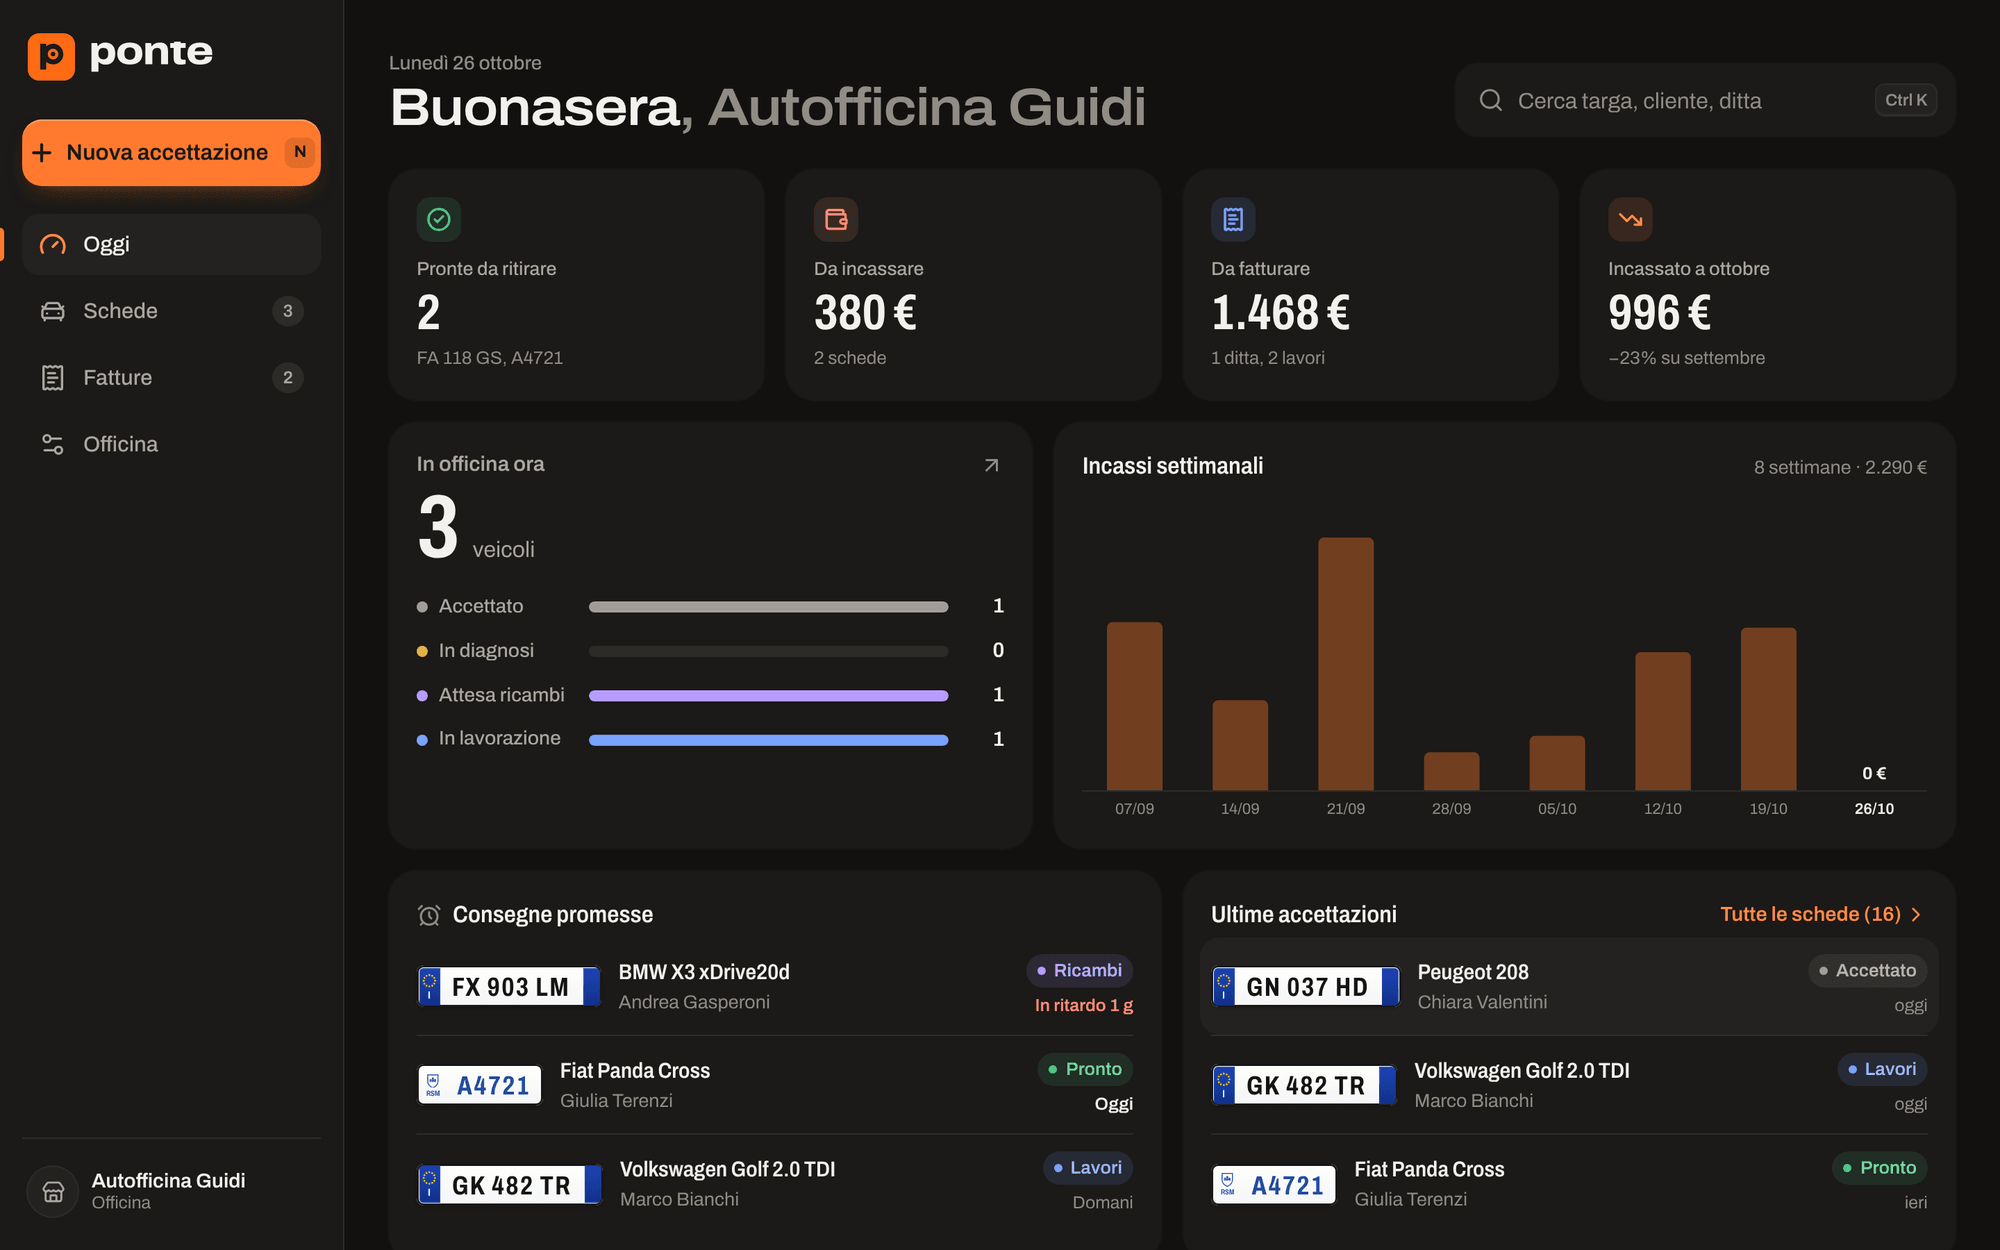
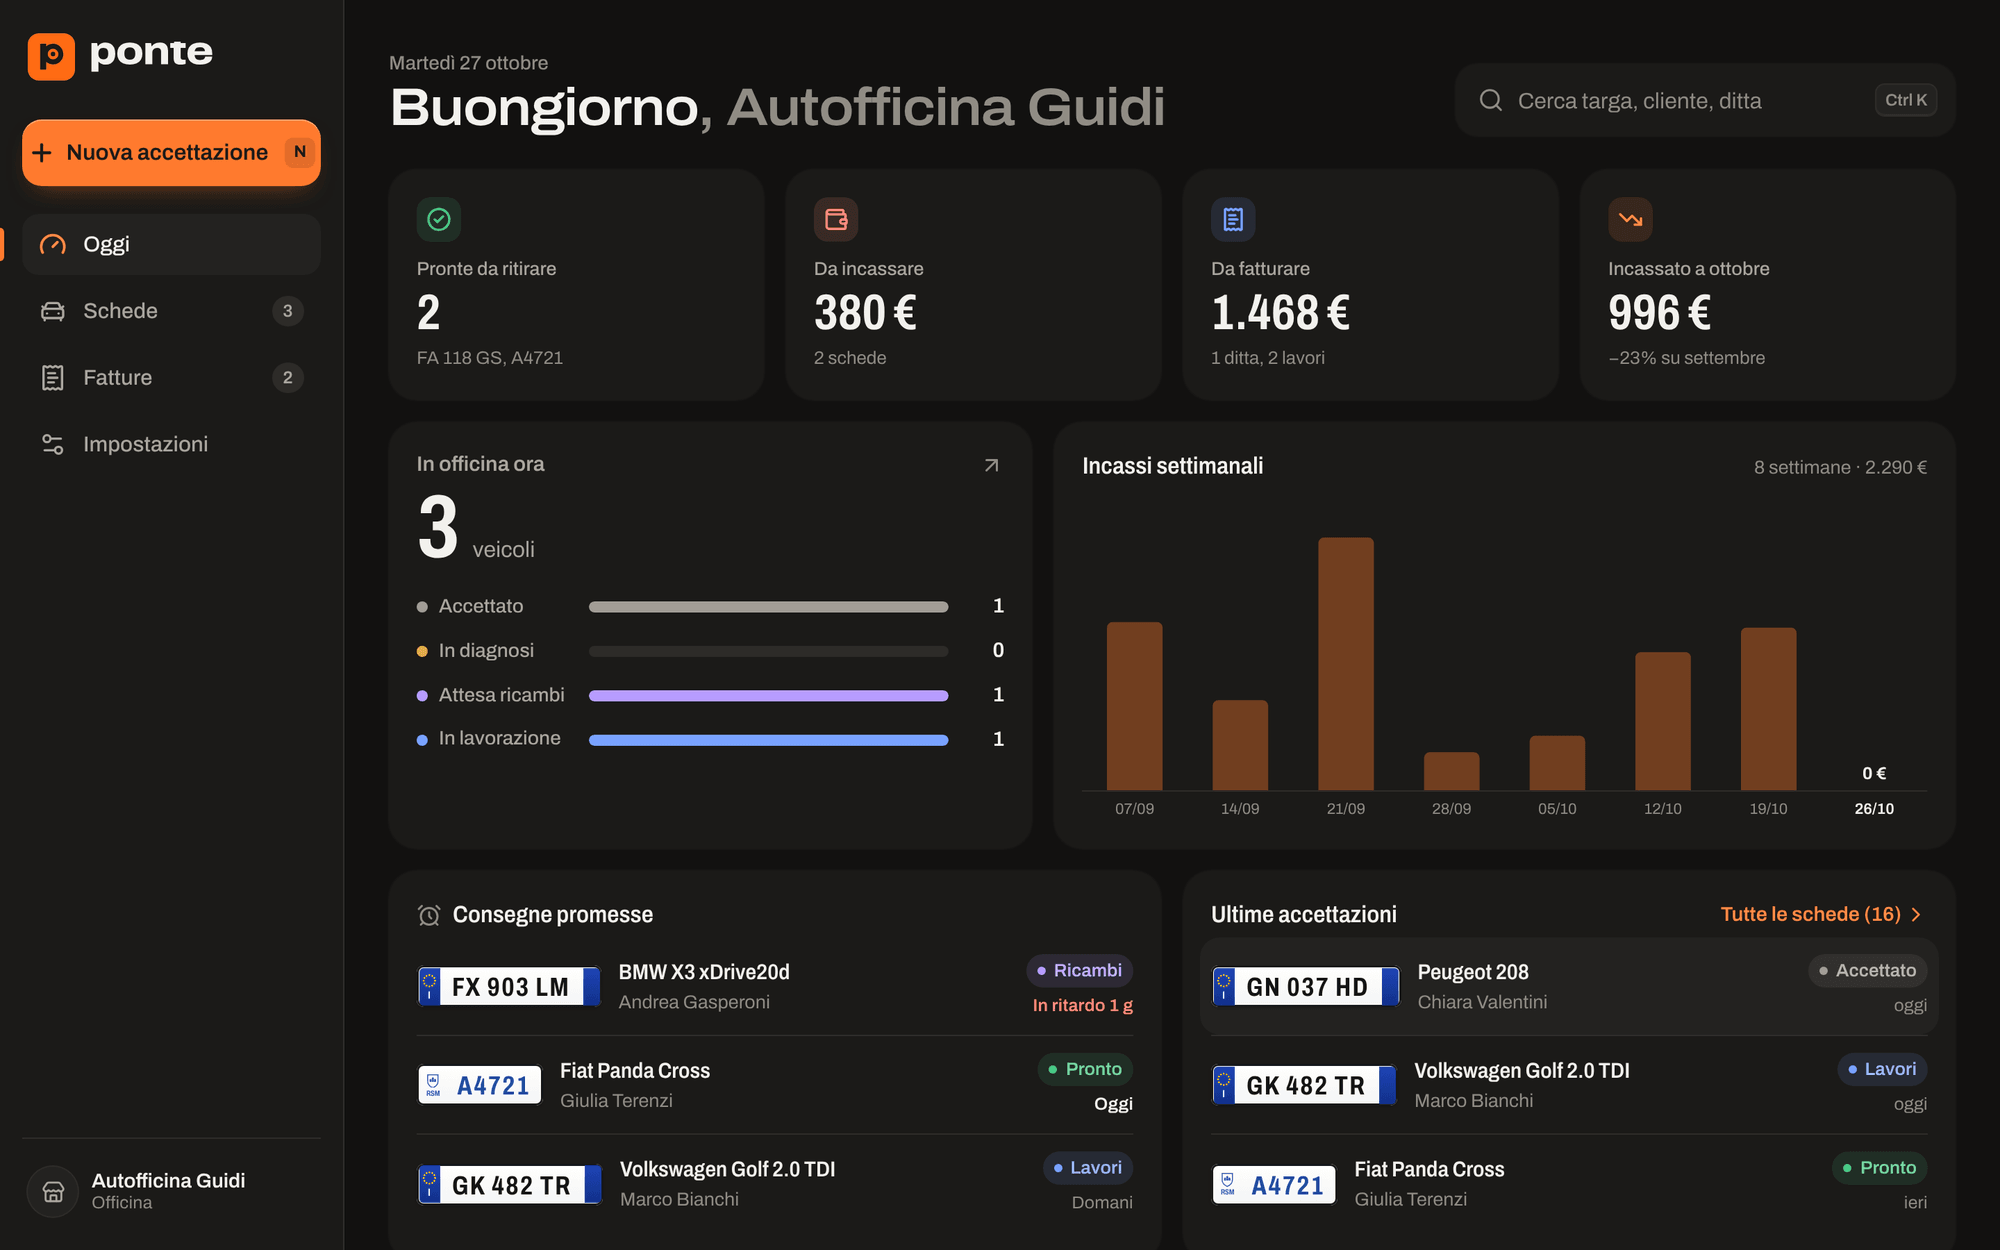
UX priorità 3: segnaposto, testo piccolo, alto contrasto, Impostazioni
- segnaposto con la forma del contenuto su Oggi, scheda ed elenco, visibili solo se l'attesa si sente
- spaziatura leggermente aperta sotto i 12 px
- Aumenta contrasto: testi secondari più scuri, bordi netti, vetro pieno
- la sezione Officina diventa Impostazioni (non si confonde con il filtro In officina)
- hover dei campi solo con mouse o trackpad
- guida di stile aggiornata (movimento, aptica, accessibilità), screenshot del README rifatti

Claude-Session: https://claude.ai/code/session_011sv5dk4jmpfnq3tRLHz5eJ

diff --git a/src/styles/index.css b/src/styles/index.css
@@ -263,8 +263,10 @@ input[type='date']::-webkit-date-and-time-value {
 .ctl::placeholder {
   color: var(--ink-3);
 }
-.ctl:hover {
-  border-color: var(--line);
+@media (hover: hover) {
+  .ctl:hover {
+    border-color: var(--line);
+  }
 }
 .ctl:focus {
   outline: none;
@@ -467,5 +469,67 @@ select.ctl {
     width: max(100%, 44px);
     height: max(100%, 44px);
     transform: translate(-50%, -50%);
+  }
+}
+
+/* testo piccolo: un filo di spaziatura in più, come fa Apple sotto i 12 pt (le misure sono in rem) */
+@layer base {
+  [class*='text-[0.75rem]'],
+  [class*='text-[0.7812rem]'],
+  [class*='text-[0.7188rem]'] {
+    letter-spacing: 0.01em;
+  }
+  [class*='text-[0.6875rem]'],
+  [class*='text-[0.6562rem]'],
+  [class*='text-[0.625rem]'] {
+    letter-spacing: 0.02em;
+  }
+}
+
+/* segnaposto di caricamento: compare solo se l'attesa supera un istante, così i caricamenti veloci non lampeggiano */
+.skeleton {
+  border-radius: var(--radius-card);
+  background: var(--surface);
+  box-shadow: var(--shadow-1);
+  opacity: 0;
+  animation:
+    skeleton-in 0.2s ease-out 0.15s forwards,
+    skeleton-pulse 1.6s ease-in-out 0.35s infinite;
+}
+@keyframes skeleton-in {
+  to {
+    opacity: 0.7;
+  }
+}
+@keyframes skeleton-pulse {
+  50% {
+    opacity: 0.45;
+  }
+}
+
+/* Aumenta contrasto: testi secondari più scuri, bordi netti, vetro e superfici pieni */
+@media (prefers-contrast: more) {
+  :root {
+    --ink-2: #3f3d39;
+    --ink-3: #4f4c47;
+    --line: #a9a59d;
+    --line-strong: #85817a;
+    --glass-fill: var(--surface);
+    --glass-fill-thick: var(--surface);
+  }
+  :root[data-theme='dark'] {
+    --ink-2: #d6d2ca;
+    --ink-3: #c2bdb4;
+    --line: #5c5852;
+    --line-strong: #7a756e;
+  }
+  .glass,
+  [data-glass='on'] .glass {
+    -webkit-backdrop-filter: none !important;
+    backdrop-filter: none !important;
+    box-shadow: 0 0 0 1.5px var(--line-strong) !important;
+  }
+  .card {
+    box-shadow: 0 0 0 1px var(--line);
   }
 }

diff --git a/src/features/job/JobPage.tsx b/src/features/job/JobPage.tsx
@@ -12,7 +12,7 @@ import { buildMsg } from '@/domain/messages';
 import type { Job, StatusKey } from '@/domain/types';
 import { deleteJob, mutateJob, restoreJob } from '@/data/repo';
 import { copyText, haptic, openExternal } from '@/platform/native';
-import { Button, Section } from '@/ui/controls';
+import { Button, Section, SkeletonBlocks } from '@/ui/controls';
 import { Plate } from '@/ui/Plate';
 import { ActionMenu } from '@/ui/Menu';
 import { StatusRail, stColor } from '@/ui/status';
@@ -22,7 +22,7 @@ import { WhatsAppSheet } from './WhatsAppSheet';
 export function JobPage() {
   const { id } = useParams();
   const job = useJob(id);
-  if (job === undefined) return null;
+  if (job === undefined) return <SkeletonBlocks className="mx-auto max-w-[760px] px-4 pt-[calc(env(safe-area-inset-top,0px)+72px)]" rows={['330px', '150px', '220px']} />;
   if (job === null)
     return (
       <div className="p-10 text-center">

diff --git a/src/features/dashboard/DashboardPage.tsx b/src/features/dashboard/DashboardPage.tsx
@@ -11,7 +11,7 @@ import { eur, fmtPlate, relDay } from '@/domain/format';
 import { custName, matchJob, veic } from '@/domain/logic';
 import type { Job } from '@/domain/types';
 import { seedDemo } from '@/data/demo';
-import { Button, EmptyState } from '@/ui/controls';
+import { Button, EmptyState, SkeletonBlocks } from '@/ui/controls';
 import { Plate } from '@/ui/Plate';
 import { SearchField } from '@/ui/SearchField';
 import { StatusPill, stColor } from '@/ui/status';
@@ -58,7 +58,7 @@ export function DashboardPage() {
     }
   };
 
-  if (jobs === undefined) return null;
+  if (jobs === undefined) return <SkeletonBlocks className={wide ? 'px-8 pt-28' : 'px-4 pt-40'} rows={wide ? ['150px', '280px', '320px'] : ['56px', '260px', '150px', '150px']} />;
 
   const header = (
     <>

diff --git a/src/features/settings/SettingsPage.tsx b/src/features/settings/SettingsPage.tsx
@@ -91,7 +91,7 @@ export function SettingsPage() {
             <BrandMark />
           </header>
         )}
-        <h1 className="w-wide mt-5 text-[1.625rem] font-semibold tracking-[-0.01em] text-ink lg:text-[2.125rem] lg:tracking-[-0.02em]">Officina</h1>
+        <h1 className="w-wide mt-5 text-[1.625rem] font-semibold tracking-[-0.01em] text-ink lg:text-[2.125rem] lg:tracking-[-0.02em]">Impostazioni</h1>
         <p className="mt-1 text-[0.9375rem] text-ink-2">Le modifiche si salvano da sole.</p>
 
         <div className="mt-5 flex flex-col gap-3 xl:grid xl:grid-cols-2 xl:items-start xl:gap-4">

diff --git a/src/ui/controls.tsx b/src/ui/controls.tsx
@@ -280,3 +280,14 @@ export function EmptyState({ title, children, action, art }: { title: string; ch
     </div>
   );
 }
+
+/** Segnaposto con la forma del contenuto mentre l'archivio si apre (compare solo se l'attesa si sente). */
+export function SkeletonBlocks({ rows, className = '' }: { rows: string[]; className?: string }) {
+  return (
+    <div className={`flex flex-col gap-3 ${className}`} aria-busy="true" aria-label="Carico">
+      {rows.map((h, i) => (
+        <div key={i} className="skeleton" style={{ height: h }} />
+      ))}
+    </div>
+  );
+}

diff --git a/src/app/Shell.tsx b/src/app/Shell.tsx
@@ -13,7 +13,7 @@ const NAV = [
   { to: '/', label: 'Oggi', icon: Gauge, end: true },
   { to: '/schede', label: 'Schede', icon: CarFront, end: false },
   { to: '/mensile', label: 'Fatture', icon: ReceiptText, end: false },
-  { to: '/impostazioni', label: 'Officina', icon: Settings2, end: false },
+  { to: '/impostazioni', label: 'Impostazioni', icon: Settings2, end: false },
 ];
 
 /** L'officina che usa l'app: logo e nome, oppure l'invito a impostarli. */

diff --git a/src/features/list/ListPage.tsx b/src/features/list/ListPage.tsx
@@ -190,7 +190,7 @@ export function ListPage() {
         {jobs === undefined ? (
           <div className="mt-3 flex flex-col gap-3" aria-busy="true" aria-label="Apro l'archivio">
             {[0, 1, 2].map((i) => (
-              <div key={i} className="card h-[150px] animate-pulse opacity-60" />
+              <div key={i} className="skeleton h-[150px]" />
             ))}
           </div>
         ) : jobs.length === 0 ? (

diff --git a/brand/STYLEGUIDE.md b/brand/STYLEGUIDE.md
@@ -80,7 +80,7 @@ Sei tappe, sempre in quest'ordine: Accettato, In diagnosi, Attesa ricambi, In la
 
 ## Vetro liquido (iOS)
 
-Su iPhone e iPad Ponte usa il linguaggio del vetro di iOS 26; su Android e desktop resta la barra traslucida classica. L'utente può forzarlo in Officina → Aspetto → Vetro liquido.
+Su iPhone e iPad Ponte usa il linguaggio del vetro di iOS 26; su Android e desktop resta la barra traslucida classica. L'utente può forzarlo in Impostazioni → Aspetto → Vetro liquido.
 
 - **Cosa diventa vetro**: solo i comandi che galleggiano sul contenuto. Barra delle sezioni (capsula flottante con la lente che scorre sotto la voce attiva, pulsante "+" separato in vetro arancio), campo di ricerca, pulsanti tondi in alto (indietro, altre azioni), barra azioni della scheda, fogli dal basso, notifiche.
 - **Cosa non lo diventa mai**: schede, sezioni, campi dei moduli, documenti. Il contenuto resta su superfici piene; il vetro sta sopra.
@@ -100,10 +100,13 @@ La prima schermata è la giornata dell'officina, non l'elenco.
 
 ## Movimento e tatto
 
-- Le molle (`stiffness` 420–520, `damping` 34–40) muovono solo ciò che l'utente ha toccato: il pallino del binario degli stati, l'indicatore dei controlli segmentati, i fogli dal basso.
-- Le schermate entrano con una sola dissolvenza di 220ms e 8px. Nessuna animazione decorativa.
-- Ogni tocco ha una risposta: pulsanti che si comprimono al 97%, vibrazione leggera sui tocchi, media sui cambi di stato, "successo" su incasso e salvataggio.
-- `prefers-reduced-motion` spegne ogni transizione.
+- Molle a smorzamento critico (`bounce: 0`, risposta 0,25–0,35 s, in `src/ui/motion.ts`) per tutto ciò che si tocca: nessun rimbalzo su un semplice tocco. Un filo di rimbalzo (`bounce: 0.2`) solo dopo un gesto con slancio, come il rilascio di una scheda trascinata.
+- Le animazioni partono sempre dalla posizione attuale e si possono riprendere a metà.
+- Scorrimento delle schede (telefono): soglia di 10 px, poi la scheda segue il dito 1:1; ai bordi resiste; al rilascio si decide dalla velocità proiettata. Verso destra lo stato successivo (con *Annulla*), verso sinistra WhatsApp.
+- Su telefono le schermate entrano con una sola dissolvenza di 220 ms e 8 px; su desktop il pannello cambia all'istante. Nessuna animazione decorativa.
+- Fogli dal basso su telefono; su schermi larghi finestre centrate e menu che nascono dal pulsante che li apre.
+- Ogni tocco ha una risposta visiva immediata (pulsanti al 97%). La vibrazione è riservata ai momenti che contano: cambio di stato, soglia dello scorrimento, interruttori, salvataggio, incasso, errore. Mai sui tocchi ordinari.
+- *Riduci movimento* spegne transizioni CSS e molle (Motion `reducedMotion="user"`).
 
 ## Documenti
 
@@ -115,4 +118,8 @@ La prima schermata è la giornata dell'officina, non l'elenco.
 
 - Testo ≥4.5:1 sul suo fondo in entrambi i temi; ogni coppia è indicata nella nota del token.
 - Contorno di focus `accent-ink` da 2.5px con 2px di distanza, su ogni elemento interattivo (≥3:1 su ogni fondo; l'arancio pieno non basta sul cemento).
+- Tipografia in rem: segue *Dimensioni testo* di iOS (fra 88% e 135%) e la dimensione del browser.
+- Bersagli di tocco di almeno 44 pt (classe `.hit` quando il disegno è più piccolo).
+- *Aumenta contrasto*: testi secondari più scuri, bordi netti, vetro pieno. *Riduci trasparenza*: superfici piene.
+- Gli errori dei moduli compaiono all'uscita dal campo e spariscono appena corretti.
 - Gli stati non si leggono mai solo dal colore: pill con parola, binario con etichette, importi con "da incassare" o "pagato".

diff --git a/docs/sviluppo.md b/docs/sviluppo.md
@@ -81,7 +81,7 @@ Tabelle IndexedDB: `jobs`, `settings` (riga `main`), `photos` (Blob JPEG).
 
 ## Vetro liquido
 
-Su iPhone e iPad (`isAppleMobile`) l'attributo `data-glass` su `<html>` attiva la barra a capsula flottante, la ricerca e le barre d'azione in vetro. L'utente può forzarlo da *Officina* → *Aspetto*; con *Riduci trasparenza* attivo nel sistema torna alle superfici piene. Le classi sono in `@layer components` di `src/styles/index.css`, quindi le utility Tailwind le possono sovrascrivere.
+Su iPhone e iPad (`isAppleMobile`) l'attributo `data-glass` su `<html>` attiva la barra a capsula flottante, la ricerca e le barre d'azione in vetro. L'utente può forzarlo da *Impostazioni* → *Aspetto*; con *Riduci trasparenza* attivo nel sistema torna alle superfici piene. Le classi sono in `@layer components` di `src/styles/index.css`, quindi le utility Tailwind le possono sovrascrivere.
 
 > Le intestazioni usano `pt-[calc(env(safe-area-inset-top,0px)+16px)]` e non `safe-top pt-4`: due utility di padding si annullerebbero a vicenda.
 

diff --git a/docs/rilascio.md b/docs/rilascio.md
@@ -48,4 +48,4 @@ Da Android Studio: *Build* → *Generate Signed App Bundle* per il Play Store.
 
 - **Identificativo**: `app.ponte.officina` (in `capacitor.config.ts`, `android/app/build.gradle`, progetto iOS). Dopo la prima pubblicazione non si cambia più.
 - **Permessi** già dichiarati con testi in italiano: fotocamera e libreria foto.
-- **Versione**: `version` in `package.json` è quella mostrata in *Officina*.
+- **Versione**: `version` in `package.json` è quella mostrata in *Impostazioni*.
